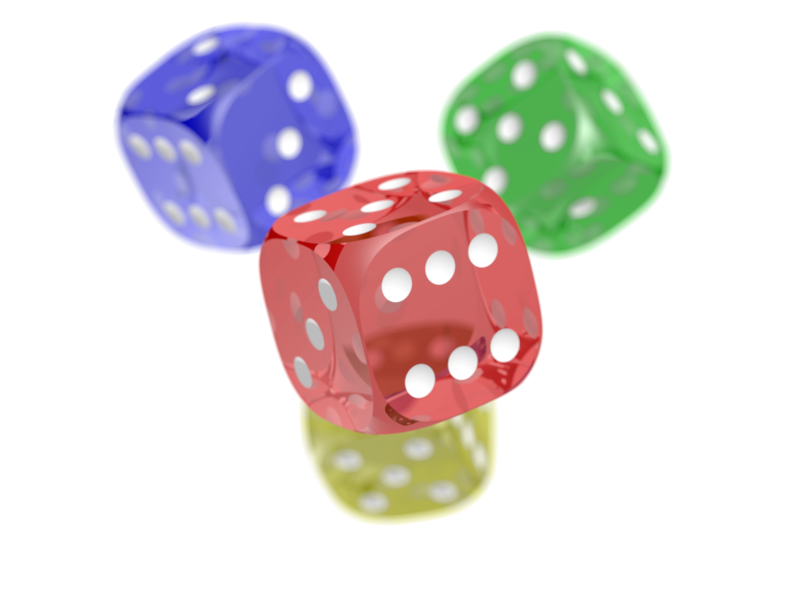
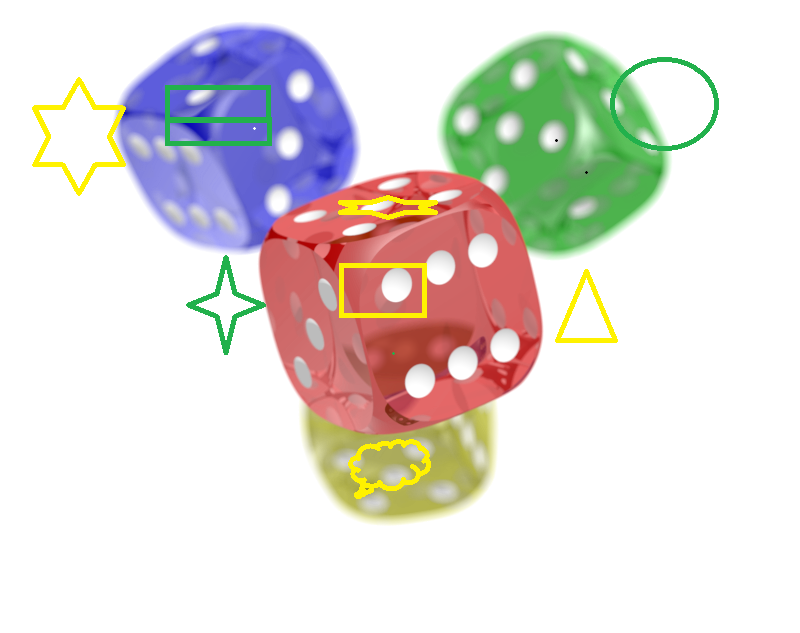
maparea

Changed region(s): [[0.0312, 0.03, 0.875, 0.9], [0.875, 0.12, 0.9062, 0.21], [0.3125, 0.03, 0.375, 0.06]]

diff --git a/Kujundus2/tood.html b/Kujundus2/tood.html
@@ -42,6 +42,9 @@
     <p>
       <a href="index.html" class="tood-link">Esimene veebilehe kujundus</a>
       <a href="Kujundus2/index.html" class="tood-link">Teine veebilehe kujundus</a>
+      <a href="tood/tabelid.html" class="tood-link">Tabelid</a>
+      <a href="tood/maparea.html" class="tood-link">Map area pilt</a>
+
     </p>
   </section>
 </main>
